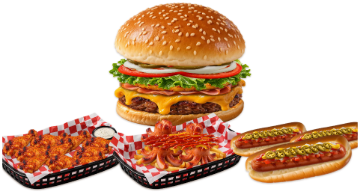
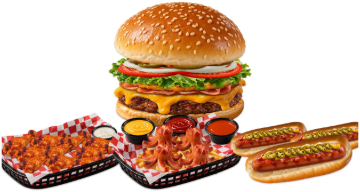
Canasta de alitas siempre llena, salsas de salchipulpos en potes y teléfono en blanco
- Alitas: mientras se eligen sabores, las que faltan se ven como receta secreta; cada sabor reemplaza una.
- Salchipulpos y papas: queso, catsup y Valentina en potes al fondo de la canasta. Fotos de combos de la caja actualizadas.
- Teléfono del encabezado en blanco y sin enlace automático azul.

diff --git a/public/index.html b/public/index.html
@@ -1,5 +1,7 @@
 <!doctype html><html lang="es"><head><meta charset="utf-8"><meta name="viewport" content="width=device-width,initial-scale=1,viewport-fit=cover"><style>:root{box-sizing:border-box;padding-top:env(safe-area-inset-top,0px);padding-bottom:env(safe-area-inset-bottom,0px)}body{margin:0;padding:0;font:14px -apple-system,BlinkMacSystemFont,sans-serif}img{max-width:100%}[hidden]{display:none!important}</style>
 <title>Menú El Carboncito</title>
+<!-- que el teléfono no convierta el número en enlace azul -->
+<meta name="format-detection" content="telephone=no">
 <meta name="claude:viewport-fit-sides" content="cover">
 <link rel="preconnect" href="https://fonts.googleapis.com">
 <link rel="preconnect" href="https://fonts.gstatic.com" crossorigin>
@@ -173,7 +175,8 @@ body { position: relative; }
 .btn.wa { background: var(--wa); border-color: var(--wa); color: #fff; box-shadow: 0 3px 0 #146c3a; }
 .btn svg { width: 18px; height: 18px; flex: none; }
 .btn:focus-visible, .tabs a:focus-visible, .item:focus-visible, .sheet-close:focus-visible { outline: 2px solid var(--orange); outline-offset: 2px; }
-.phone { font-variant-numeric: tabular-nums; letter-spacing: .03em; }
+/* blanco siempre: algunos teléfonos lo convierten en enlace azul y no se lee sobre el fondo café */
+.info .phone, .phone a, .info a[href^="tel"] { color: #fff; text-decoration: none; font-variant-numeric: tabular-nums; letter-spacing: .03em; }
 
 /* ---------- navegación ---------- */
 .tabs {
@@ -753,9 +756,10 @@ const ING = {
   /* salchipulpos y papas */
   sp_papas:  { name: "Papas", file: "sp-papas.webp", ar: .46, tone: "#e9b43c" },
   salchipulpo: { name: "Salchipulpos", file: "salchipulpos-4.webp", ar: .65, tone: "#c8502c" },
-  sp_queso:  { name: "Queso de nachos", file: "sp-queso-nachos.webp", sy: .55, at: { x: 50, y: 26, w: 44 }, ar: .58, tone: "#f4a91c", wipe: true },
-  sp_catsup: { name: "Catsup", file: "sp-catsup.webp", sy: .55, at: { x: 44, y: 29, w: 40 }, ar: .44, tone: "#b81d12", wipe: true },
-  sp_valentina: { name: "Valentina", file: "sp-valentina.webp", sy: .5, at: { x: 57, y: 28, w: 40 }, ar: .6, tone: "#8a1a0a", wipe: true },
+  /* salsas en potes negros al fondo de la canasta */
+  sp_queso:  { name: "Queso de nachos", file: "queso-nachos-bote.webp", at: { x: 22, y: 31, w: 24 }, ar: .81, tone: "#f4a91c" },
+  sp_catsup: { name: "Catsup", file: "catsup-bote.webp", at: { x: 50, y: 33, w: 24 }, ar: .81, tone: "#b81d12" },
+  sp_valentina: { name: "Valentina", file: "valentina-bote.webp", at: { x: 78, y: 31, w: 24 }, ar: .81, tone: "#8a1a0a" },
 
   /* bebidas: la foto la pone cada producto (file); sin foto se ve el marcador con su nombre */
   bebida: { name: "Bebida", ar: 1.6, tone: "#2f6db5", ghost: true },
@@ -1002,32 +1006,33 @@ const COMPOSE = {
     if (!isOff(s, "ranch")) { const a = ING.ranch.at; L.push({ key: "ranch", ing: "ranch", x: a.x, y: a.y, w: a.w, z: 33, enter: "drop", order: 5 }); }
     const n = s.n || (s.opt === 1 ? 5 : 10), media = n <= 5, spots = (media ? WING_SPOTS_5 : WING_SPOTS_10).slice(0, n);
     const ids = p.mix ? spots.map((_, i) => SAUCES.filter(x => !x.plain)[i % 5].id)
-      : s.alas ? alasLista(s.alas).slice(0, n)
+      /* con el contador: primero las que ya tienen sabor y el resto con la receta secreta, para que nunca se vea la canasta vacía */
+      : s.alas ? alasLista(s.alas).slice(0, n).concat(Array(Math.max(0, n - alasTotal(s.alas))).fill("base"))
       : spots.map(() => s.sauces[0] || SAUCES[0].id);
     const vistas = {};
     ids.forEach((id, i) => {
       const [x, y, rot] = spots[i];
       /* clave por sabor y número: al sumar una, cae la nueva y las demás se acomodan */
       const k = vistas[id] = (vistas[id] || 0) + 1;
-      L.push({ key: "ala-" + id + "-" + k, ing: "ala", file: `alitas-${id}-1.webp`, x, y, w: media ? 30 : 27, rot, z: 40 + i, enter: "drop", order: 6 + i, seq: i + 1 });
+      const foto = id === "base" ? SAUCES[0].id : id;
+      L.push({ key: "ala-" + id + "-" + k, ing: "ala", file: `alitas-${foto}-1.webp`, x, y, w: media ? 30 : 27, rot, z: 40 + i, enter: "drop", order: 6 + i, seq: i + 1 });
     });
     return { H, L, fit: 1, shadow: { x: 50, w: 94 } };
   },
 
-  /* canasta con papas; los pulpos encima (si lleva) y las salsas al final */
+  /* canasta con las salsas en potes al fondo, las papas y los pulpos encima (si lleva) */
   loaded(p, s) {
     const H = 62, big = s.opt === 1, L = [];
     basket(L, false);
-    L.push({ key: "papas", ing: "sp_papas", x: 50, y: 12, w: big ? 72 : 62, z: 2, enter: "drop", order: 1 });
+    ["sp_queso", "sp_catsup", "sp_valentina"].forEach((id, i) => {
+      if (!p.recipe.includes(id) || isOff(s, id)) return; const a = ING[id].at;
+      L.push({ key: id, ing: id, x: a.x, y: a.y, w: a.w, z: 2 + i, enter: "drop", order: 1 + i });
+    });
+    L.push({ key: "papas", ing: "sp_papas", x: 50, y: 10, w: big ? 70 : 60, z: 10, enter: "drop", order: 4 });
     if (p.pulpos) {
       const six = p.pulpos[s.opt] === 6;
-      L.push({ key: "pulpos", ing: "salchipulpo", file: six ? "salchipulpos-6.webp" : "salchipulpos-4.webp", x: 50, y: 14, w: six ? 64 : 54, z: 3, enter: "pop", order: 2 });
+      L.push({ key: "pulpos", ing: "salchipulpo", file: six ? "salchipulpos-6.webp" : "salchipulpos-4.webp", x: 50, y: 12, w: six ? 62 : 52, z: 11, enter: "pop", order: 5 });
     }
-    const dy = p.pulpos ? 0 : -4;   /* sin pulpos las salsas caen directo sobre las papas */
-    ["sp_queso", "sp_catsup", "sp_valentina"].forEach((id, i) => {
-      if (!p.recipe.includes(id) || isOff(s, id)) return; const g = ING[id], a = g.at;
-      L.push({ key: id, ing: id, x: a.x, y: a.y + dy, w: a.w, sy: g.sy, z: 4 + i, enter: "wipe", order: 3 + i });
-    });
     return { H, L, fit: 1, shadow: { x: 50, w: 94 } };
   },
 

diff --git a/public/caja/sw.js b/public/caja/sw.js
@@ -1,5 +1,5 @@
 /* Guarda la caja en el iPad para que abra sin internet. Cambia VERSION al publicar cambios. */
-var VERSION = "caja-v18";
+var VERSION = "caja-v19";
 var FILES = ["./", "index.html", "app.js", "../js/qrcode.min.js", "manifest.webmanifest", "icon-180.png", "icon-512.png",
   "img/sencilla.png", "img/hawaiana.png", "img/bbq.png", "img/loba.png", "img/monstruo.png",
   "img/hotdog.png", "img/hotdog-tocino.png", "img/salchipulpos.png", "img/papas.png", "img/alitas.png",

diff --git a/CLAUDE.md b/CLAUDE.md
@@ -52,7 +52,9 @@ Proyecto del negocio familiar El Carboncito (hamburguesas, hotdogs, salchipulpos
 - Bebidas: Jarritos Uva, Piña, Manzana, Limón y Tamarindo de 600 ml a $25 (menú, caja y servidor). Coca-Cola de vidrio 500 ml a $25 (menú, caja y servidor). Cerveza $35: **solo en la caja** (no está en el menú ni en el servidor). Para agregar otra: `bebida(...)` en `shared/core.mjs` y en el menú, y en `PRODUCTS` de la caja con `cat: "drinks"`. Si hay menos de 5 a la venta, la sección se rellena con espacios "Próximamente" (`BEBIDA_ESPACIOS`).
 - Combos en el menú: se arman por capas con el constructor de cada parte (`COMPOSE.combo`): atrás lo alto (hamburguesas y refresco, que va más grande), adelante lo bajo (canastas y hotdogs). Cada parte usa su porción (`opt`, `piezas`). Al cambiar el refresco cae el nuevo. Las fotos de combos de la caja (`caja/img/combo-*.png`, `domi-combo.png`, `medio-alicombo.png`) se sacaron de esas mismas capas; si cambian los combos, hay que volver a generarlas.
 - Fotos: el menú usa WebP en `public/img/` (una alita por sabor `alitas-<sabor>-1.webp`, bebidas, chiles del hotdog). La caja usa PNG en `public/caja/img/` (iOS 12 no lee WebP): alitas de 5 y 10 piezas por sabor, bebidas y combos. Para convertir WebP a PNG con transparencia se usó el navegador (canvas), porque el decodificador de Windows pierde el canal alfa.
-- Animación de alitas (menú): caen una por una en la canasta con la foto del sabor (10 la orden, 5 la media; posiciones en `WING_SPOTS_10` y `WING_SPOTS_5`). Mitad y mitad alterna los dos sabores; el combo mixto deja caer 2 de cada salsa (1 en el medio combo). Si cambia el sabor, las alitas vuelven a caer.
+- Animación de alitas (menú): la canasta siempre está llena (10 la orden, 5 la media, 4 en el CARBONCITO; posiciones en `WING_SPOTS_10` y `WING_SPOTS_5`). Las que aún no tienen sabor se ven como receta secreta; cada sabor que suma el contador cae y reemplaza una. El combo mixto deja caer 2 de cada salsa (1 en el medio combo).
+- Salchipulpos y papas: las salsas (queso de nachos, catsup y Valentina) van en potes negros al fondo de la canasta (`queso-nachos-bote.webp`, `catsup-bote.webp`, `valentina-bote.webp`); al quitar una, desaparece su pote.
+- El teléfono del encabezado va en blanco y con `format-detection: telephone=no`, para que ningún teléfono lo pinte de azul.
 
 ## Caja: pantalla de venta
 
